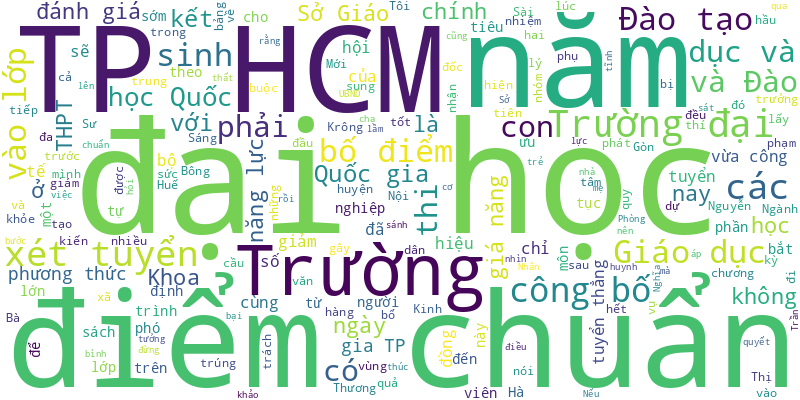
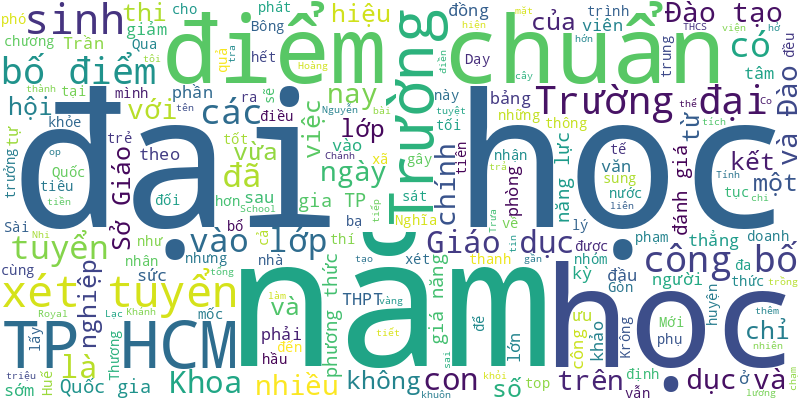
🍀 = 10%

diff --git a/README.md b/README.md
@@ -1,7 +1,17 @@
 # Tuoi Tre RSS 
 
 ## Giáo dục 
+- Chánh văn phòng Sở Giáo dục và Đào tạo TP.HCM thông tin chi tiết về việc tuyển bổ sung vào lớp 10 năm 2024.
+- Tính đến tối ngày 4-7, đã có hơn 90 đại học, trường đại học, học viện công bố điểm chuẩn xét tuyển sớm, nhiều trường công bố điểm chuẩn xét học bạ chạm mốc gần tuyệt đối.
+- Trường đại học Khoa học tự nhiên (Đại học Quốc gia TP.HCM) vừa tiếp tục công bố điểm chuẩn thêm 2 phương thức xét tuyển sớm 1 và 6.
+- Nguyễn Hoàng Khánh Nhi (học sinh lớp 8 Royal School) liên tục điền tên vào ‘top đầu’ trên bảng vàng thành tích.
+- Trưa 4-7, nhiều thí sinh đã ra khỏi phòng khảo sát (kỳ tuyển sinh vào lớp 6 Trường Trần Đại Nghĩa năm 2024) với khuôn mặt hớn hở…
+- Sinh viên theo học chương trình Co-op từ năm 2 có thể làm việc như một nhân viên chính thức tại doanh nghiệp và được trả lương.
+- Qua thanh tra đã phát hiện tổng số tiền sai phạm tại Trường THCS Học Lạc là trên 585 triệu đồng.
+- Dạy con trồng cây, tôi nhận ra những bài học quý giá từ việc nuôi dạy một đứa trẻ.
+- Năm nay tròn 90 tuổi, sức đã yếu, mắt đã mờ nhưng GS Trần Thanh Vân vẫn còn rất nhiều tâm huyết với nền khoa học, giáo dục nước nhà.
 - Sáng nay 4-7, 4.301 học sinh lớp 5 ở TP.HCM đã bước vào kỳ khảo sát tuyển sinh lớp 6 của Trường Trần Đại Nghĩa. Chỉ tiêu tuyển của trường này là 350 học sinh.
+- Sau khi thi tốt nghiệp THPT 2024, thí sinh cần lưu ý các mốc thời gian như ngày công bố điểm thi, nộp đơn phúc khảo, đăng ký, điều chỉnh nguyện vọng xét tuyển đại học...
 - Nếu các con bị thất bại, cha mẹ nên nói với con điều đó không phải là kết thúc mà chính là một cơ hội để học hỏi và lớn lên.
 - Mới nhìn qua bảng điểm chuẩn vào lớp 10 ở TP.HCM năm nay, nhiều người lầm tưởng rằng hầu hết các trường THPT đều giảm điểm chuẩn.
 - Không chỉ con trẻ, chính các phụ huynh cũng phải tự mình bình tĩnh, đừng so sánh con mình với con nhà người rồi tạo áp lực tâm lý.
@@ -21,50 +31,41 @@
 - Tối 2-7, Trường đại học Bách khoa (Đại học Quốc gia TP.HCM) đã công bố điểm chuẩn ưu tiên xét tuyển thẳng và ưu tiên xét tuyển theo quy định của Đại học Quốc gia TP.HCM năm 2024.
 - Chiều 2-7, Trường đại học Kinh tế quốc dân chính thức công bố điểm chuẩn xét tuyển kết hợp nhóm 1, nhóm 2 và kết quả xét tuyển thẳng (xét tuyển sớm).
 - Sở Giáo dục và Đào tạo TP.HCM sẽ công bố điểm chuẩn vào lớp 10 năm 2024 vào lúc 14h ngày 3-7-2024.
-- Trường đại học Kinh tế - Luật và Trường đại học Khoa học tự nhiên (Đại học Quốc gia TP.HCM) tiếp tục công bố điểm chuẩn trúng tuyển các phương thức xét tuyển sớm, trong đó có điểm thi đánh giá năng lực.
-- Bộ Giáo dục và Đào tạo vừa công bố đáp án các môn thi tốt nghiệp THPT 2024. Bộ dự kiến đúng 8h ngày 17-7 sẽ công bố điểm thi.
-- Bà Phùng Thị Hoa, phó giám đốc Sở Tài chính Hà Giang, cùng hai cán bộ Sở Giáo dục và Đào tạo bị bắt với cáo buộc thiếu trách nhiệm trong quá trình thực hiện nhiệm vụ chương trình mục tiêu giáo dục vùng núi, vùng dân tộc thiểu số...
-- Kết luận thanh tra phát hiện một trường tiểu học đạt chuẩn quốc gia ở Đồng Nai thu chi ngoài ngân sách hàng trăm triệu đồng sai quy định.
-- Nguyễn Thị Yến Nhi, thí sinh phải nằm thi 2 môn và phải đi cấp cứu trước giờ thi môn thứ ba, đã được tuyển thẳng vào lớp 10 Trường THPT Nguyễn Hữu Cầu, TP.HCM.
-- Giám đốc Sở Giáo dục và Đào tạo tỉnh Long An cho biết dự kiến năm 2024 sẽ tiếp tục đặt hàng 2.083 sinh viên sư phạm để tạo nguồn bổ sung giáo viên.
-- Sáng 2-7, Trường đại học Quốc tế (Đại học Quốc gia TP.HCM) công bố điểm chuẩn các ngành đào tạo bậc đại học theo phương thức xét tuyển sớm.
-- Năm nay điểm chuẩn vào lớp 10 Trường THPT Đoàn Kết - Hai Bà Trưng giảm sâu đến 16,25 điểm so với năm trước.
-- Tôi không nói với con về những khó khăn đang gặp phải. Tôi chọn cách đưa con đi lang thang nơi này, chốn nọ, khi thì đạp xe, lúc cùng đọc sách...
-- Từ 13h ngày 5-7 đến 7-7, thí sinh đã đủ điểm trúng tuyển vào lớp 10 ở Hà Nội bắt buộc phải làm thủ tục xác nhận nhập học.
 ![Edu](Edu.png)
 ## Thời Sự 
-- Theo đề xuất của Bộ Công an, cá nhân có hành vi cầm cố, nhận cầm cố, mua, bán, thuê, cho thuê căn cước công dân, căn cước... có thể bị phạt từ 4-6 triệu đồng.
-- Ông Lê Trí Thanh, nguyên chủ tịch UBND tỉnh Quảng Nam, đã được Tỉnh ủy điều động giữ chức bí thư Đảng đoàn Ủy ban Mặt trận Tổ quốc Việt Nam tỉnh Quảng Nam.
-- Ông Lê Quang Thuận - phó chủ tịch UBND huyện Hướng Hóa - bị đề nghị xem xét, xử lý kỷ luật do ký giấy tờ vi phạm pháp luật về đất đai.
-- Ô tô chạy trên đường Nguyễn Tất Thành, quận 4 (TP.HCM) có lắp đèn phía sau 'siêu sáng' khiến người đi đường chói mắt, bức xúc, sau đó quay clip đăng tải lên mạng xã hội.
-- Theo nghị định 73 của Chính phủ, từ ngày 1-7, mức lương cơ sở tăng lên. Tuy nhiên, lương tăng nhưng mức giảm trừ gia cảnh vẫn đứng yên khiến nhiều người thấy việc tăng lương chưa trọn vẹn ý nghĩa.
+- Dự thảo báo cáo mới nhất của Bộ Nội vụ cho biết tính đến ngày 30-6 đã nhận được 28/53 hồ sơ đề nghị sáp nhập đơn vị cấp huyện, xã của các tỉnh, thành phố.
 - Cùng với việc tăng lương cơ sở 30% từ ngày 1-7, mức chi trả cho người bệnh có thẻ bảo hiểm y tế cũng tăng theo.
-- Một số tin tức đáng chú ý: 8 phường ở TP Thủ Đức cúp nước; Ninh Bình vào top 10 trải nghiệm cuốn hút nhất năm 2024; Hà Nội đưa bán hàng livestream vào danh mục đào tạo nghề...
-- Hôm nay 4-7, thời tiết Bắc Bộ tiếp tục mưa to nhiều nơi. Tây Nguyên và Nam Bộ mưa về chiều tối. Trung Bộ ngày nắng nóng, chiều mưa dông.
-- Giữa đêm ngọn lửa bùng phát, khói bốc cao nghi ngút trong vụ cháy nhà xưởng tại Khu công nghiệp Nam Tân Uyên ở Bình Dương.
-- Chính phủ vừa phê duyệt quy hoạch tỉnh Đồng Nai thời kỳ 2021-2030, tầm nhìn đến năm 2050, trong đó lấy sân bay Long Thành, sông Đồng Nai làm động lực mới cho phát triển đột phá.
-- Lãnh đạo nhiều doanh nghiệp bảo hiểm phi nhân thọ đề nghị giải thích rõ quy định cấm gắn bán sản phẩm bảo hiểm không bắt buộc với cung ứng sản phẩm, dịch vụ ngân hàng dưới mọi hình thức.
-- Sau phản ánh "Ớn lạnh chắn tàu tự động bất ngờ nâng lên khi đoàn tàu đang chạy đến" của Tuổi Trẻ Online, ngành đường sắt cho biết đây là sự cố ngoài ý muốn.
-- Ngày 3-7, đại diện Phòng cảnh sát giao thông (PC08) Công an TP.HCM cho biết Công an TP phát động toàn dân tham gia cung cấp thông tin, hình ảnh vi phạm giao thông trên địa bàn.
-- TP.HCM sẽ chấm dứt hợp đồng với nhà đầu tư dự án BOT đường nối Võ Văn Kiệt đến cao tốc TP.HCM - Trung Lương.
-- Hàng chục xác lợn đã bốc mùi hôi thối được vứt ngổn ngang giữa đồng ở xã Vạn Ninh (Quảng Ninh, Quảng Bình) khiến người dân rất lo lắng về dịch bệnh.
-- Trung tướng Nguyễn Hải Trung - giám đốc Công an Hà Nội - nói như vậy khi trả lời chất vấn của đại biểu liên quan kết quả thực hiện nghị quyết về tăng cường phòng cháy chữa cháy tại thủ đô của HĐND TP Hà Nội.
-- Chỉ tiêu đất công nghiệp được phân bổ hạn chế khiến Bình Phước gặp nhiều khó khăn trong việc phát triển cũng như khai thác các lợi thế của địa phương.
-- UBND tỉnh Phú Yên xử phạt vi phạm hành chính một doanh nghiệp 300 triệu đồng vì nhiều sai phạm trong khai thác khoáng sản phục vụ thi công tuyến cao tốc Bắc - Nam.
-- Chính phủ vừa có nghị định tăng chuẩn trợ cấp ưu đãi người có công từ 2,055 triệu đồng lên 2,789 triệu đồng, tức tăng 35,7%, cao hơn tăng lương cơ sở từ 1-7.
-- Dự kiến việc di dời 11 tuyến xe khách cố định sang bến xe Miền Đông mới bắt đầu từ 0h ngày 1-8.
-- Vì thiếu kinh phí hoạt động, khó khăn trong tìm nguồn tài trợ, CLB TP.HCM xin Thành ủy, UBND TP.HCM cho gắn tên nhà tài trợ vào sau tên câu lạc bộ bóng đá.
-- Chiều tối nay 3-7, mây dông mạnh gây mưa nhiều nơi tại TP.HCM, có nơi mưa to kèm gió mạnh khiến đường ngập, cây xanh bật gốc.
-- Thủ tướng Chính phủ đã phê chuẩn kết quả bầu chức vụ chủ tịch UBND tỉnh Quảng Nam đối với ông Lê Văn Dũng.
-- Chiều 3-7, Bộ Y tế tổ chức lễ công bố quyết định của Thủ tướng Chính phủ bổ nhiệm ông Nguyễn Tri Thức, giám đốc Bệnh viện Chợ Rẫy, giữ chức thứ trưởng Bộ Y tế.
-- Cơ quan chức năng tỉnh Bà Rịa - Vũng Tàu đã khởi tố vụ án, khởi tố một bị can để điều tra hành vi vi phạm IUU. Ngoài ra hiện đang tiếp tục làm rõ cũng như kiến nghị cơ quan khác xử lý.
-- Ngày 3-7, một nữ du khách đã bị cây rừng ngã đập đầu tử vong trong lúc ngồi sau xe máy vào tham quan thác K50 tại huyện Kbang (Gia Lai).
-- Bộ Tài chính đã yêu cầu Công ty Xổ số kiến thiết Quảng Nam rà soát, khắc phục những tồn tại, hạn chế trong hoạt động kinh doanh xổ số.
-- Bộ Kế hoạch và Đầu tư vừa có tờ trình gửi Thủ tướng về việc điều chỉnh chủ trương (điều chỉnh thời gian thực hiện) dự án metro số 1.
-- 2 người phụ nữ cãi nhau trên mạng xã hội. Khi họ hẹn gặp nhau giải quyết mâu thuẫn thì chồng và người yêu của họ dùng súng, dao tấn công nhau.
-- Mô hình thường trực Thành ủy đồng thời là chủ tịch Ủy ban MTTQ Việt Nam là tiền lệ và đó là mô hình tốt cho TP.HCM
+- Ngày 4-7, chủ tịch hội đồng thành viên Tập đoàn Điện lực Việt Nam Đặng Hoàng An đã phê duyệt dự án cấp điện cho Côn Đảo từ lưới điện quốc gia. Dự án này có tổng mức đầu tư hơn 4.900 tỉ đồng.
+- Liên tiếp những vụ lắp camera quay lén bị phát giác khiến dư luận bức xúc và người bị quay lén "sống trong cảnh hoang mang", sợ những hình ảnh nhạy cảm của mình bị tung lên mạng.
+- Liên quan việc thí điểm đèn giao thông không đếm ngược ở TP.HCM, Tuổi Trẻ ghi nhận thực tế và trao đổi thông tin với cơ quan chức năng, ý kiến từ chuyên gia giao thông xung quanh việc này.
+- Một số tin tức đáng chú ý: Doanh thu phí bảo hiểm vẫn trượt dốc; Tỉ lệ chênh lệch giới tính khi sinh tại Hà Nội vẫn ở mức cao; Lương chủ tịch Xổ số TP.HCM 830 triệu đồng một năm, chưa kể thưởng...
+- Hôm nay 5-7, mưa dông tại Bắc Bộ và Nam Bộ giảm so với những ngày qua, tuy nhiên chiều tối vẫn có nơi xuất hiện mưa to.
+- Tại hiện trường vụ cháy công ty sản xuất bao bì ở Vĩnh Phúc, 'biển lửa' kèm theo cột khói đen đặc quánh, bốc cao hàng trăm mét bao trùm toàn bộ công ty.
+- Điện Kremlin xác nhận Thủ tướng Ấn Độ Narendra Modi sẽ thăm Nga vào ngày 8 và 9-7 trong chuyến thăm song phương đầu tiên sau khi ông đắc cử nhiệm kỳ thứ 3.
+- Doanh nghiệp đề xuất tuyến tàu tự lái chở khách để giảm ùn tắc cho khu vực sân bay Tân Sơn Nhất.
+- Chủ tịch HĐND TP.HCM Nguyễn Thị Lệ cho biết bà từng bị một người giả danh công an gọi lừa đảo nhưng không thành công. Cần tăng cường các biện pháp phòng chống tội phạm công nghệ cao.
+- Trước tình trạng xe dù, bến cóc lộng hành, chưa có dấu hiệu giảm, cơ quan chức năng tại TP.HCM đã dùng nhiều biện pháp để giải quyết, nhưng sự phối hợp chưa chặt chẽ.
+- Ba liệt sĩ hy sinh khi đang thực hiện nhiệm vụ trên các đảo thuộc quần đảo Trường Sa (tỉnh Khánh Hòa). Thủ tướng đã có quyết định cấp bằng "Tổ quốc ghi công".
+- Ban Văn hóa - Xã hội HĐND tỉnh Khánh Hòa kiến nghị bãi bỏ quyết định ban hành nội quy công viên bờ biển Nha Trang có quy định cấm thả diều không phù hợp quy định pháp luật.
+- Tổng bí thư Nguyễn Phú Trọng, Ủy viên Ban Thường vụ Đảng ủy Công an Trung ương, gửi nội dung phát biểu chỉ đạo, gợi mở một số ý kiến quan trọng để hội nghị tham khảo trong quá trình thảo luận.
+- Chủ tịch Quốc hội Trần Thanh Mẫn đã ký nghị quyết của Ủy ban Thường vụ Quốc hội về phân công nhiệm vụ đối với Chủ tịch, các Phó chủ tịch Quốc hội khóa XV.
+- Người dân phản ảnh khi khám chữa bệnh là phải mua sổ khám chữa bệnh rất lãng phí. Từ thực tế này, đại biểu HĐND TP Cần Thơ hỏi giám đốc Sở Y tế khi nào người dân đi khám bệnh không còn phải mua sổ khám bệnh nữa?
+- Dự án chống ngập 10.000 tỉ (nhà đầu tư là Tập đoàn Trung Nam) đã khởi công 8 năm và hoàn thành 90%. Hiện nay dự án còn nhiều vướng mắc và chờ được Chính phủ tháo gỡ.
+- Ngày 4-7, Công an Đà Nẵng cho biết vừa triệt phá đường dây tổ chức đánh bạc dưới hình thức cá độ bóng đá qua mạng, liên tỉnh trong mùa Euro, Copa America với tổng số tiền giao dịch hơn 100 tỉ đồng.
+- TP.HCM đang thí điểm đèn giao thông đếm ngược tại 4 giao lộ lớn, việc này nhận về nhiều ý kiến khác nhau. Nhiều người dân cho rằng đèn không đếm ngược dễ dừng đèn vàng đột ngột, gây tai nạn.
+- Bộ Tư pháp đề xuất bãi bỏ quy định về việc nộp giấy xác nhận tình trạng hôn nhân khi làm thủ tục đăng ký kết hôn.
+- TP Cần Thơ được trung ương ban hành nhiều chính sách phát triển, cộng thêm vị trí địa lý thuận lợi, trung tâm vùng Đồng bằng sông Cửu Long nhưng lại phát triển chưa kỳ vọng. Điều này có lãng phí "thiên thời, địa lợi, nhân hòa"?
+- 71 con sông, kênh, rạch và 12 ao, hồ, khu bảo tồn đã được Long An phê duyệt lập hành lang bảo vệ nguồn nước.
+- Chiều 4-7, tại cuộc họp báo kinh tế - xã hội, Chánh Văn phòng UBND TP.HCM Đặng Quốc Toàn đã trả lời báo chí về các tồn tại, vi phạm ở Phú Mỹ Hưng.
+- Từ năm 2023 đến nay, Bình Phước ghi nhận 94 trẻ em bị bạo lực, xâm hại. Trong nhiều hình thức xâm hại thì xâm hại tình dục trẻ em chiếm đến 75%.
+- Đường trên cao nối quốc lộ 13, đường Đinh Bộ Lĩnh, Xô Viết Nghệ Tĩnh sẽ giúp người dân đi vào trung tâm TP thuận tiện hơn.
+- Bộ Ngoại giao hoan nghênh các đánh giá của Mỹ về nỗ lực chống mua bán người ở Việt Nam, song cho rằng vẫn có sự thiếu khách quan về tình hình tự do tôn giáo.
+- Liên quan vụ án xảy ra tại khu đô thị du lịch biển Phan Thiết, Cơ quan cảnh sát điều tra Bộ Công an tiếp tục khởi tố thêm ông Nguyễn Ngọc - cựu phó chủ tịch thường trực tỉnh Bình Thuận - cùng 4 bị can khác.
+- Đồng loạt các tỉnh Tiền Giang, Long An, Đắk Lắk và nhiều địa phương đã phản hồi, đề nghị với Tập đoàn Viettel để tránh bị ngắt, gián đoạn dữ liệu đất đai.
+- UBND TP Bảo Lộc (tỉnh Lâm Đồng) đã có văn bản kiến nghị sớm kết luận sai phạm (nếu có) liên quan đến việc hiến đất mở đường để phân lô xẻ nền đất.
 ![New](News.png)
 ## Nhịp sống số 
+- Có thể thấy rằng để tối đa hóa doanh thu từ website, ứng dụng, thì nhiệm vụ là cần duy trì hiệu suất ở mức cao nhất có thể.
 - Theo cơ quan chức năng, nhà mạng cho phép thực hiện cuộc gọi lừa đảo nghĩa là đã cung cấp dịch vụ liên lạc không đúng cách và gây thiệt hại cho thuê bao.
 - Nghiên cứu mới cho thấy tiếp xúc với ánh sáng nhân tạo như bóng đèn hay điện thoại thông minh sau nửa đêm có thể làm tăng nguy cơ mắc đái tháo đường loại 2.
 - Nếu lỡ cài đặt bản cập nhật KB5039302 được phát hành gần đây cho Windows 11 và bị lỗi khởi động lại liên tục, bạn có thể làm gì?
@@ -94,5 +95,4 @@
 - Doanh nghiệp và người tiêu dùng đều cần công cụ để tự bảo vệ mình trước những hình thức gian lận mới của thanh toán số.
 - Chỉ trong một thời gian ngắn, truyền hình MyTV của VNPT đã đạt được sự tăng trưởng thần tốc, thực sự trở thành người bạn đồng hành thân thiết với các gia đình Việt mỗi ngày.
 - Kết nối Internet quốc tế gặp sự cố, chập chờn thường là cơn đau đầu của các nhà cung cấp dịch vụ trực tuyến.
-- Với sự xuất hiện của 6G, thế hệ băng thông mở rộng tiếp theo sẽ mang đến nhiều công năng và bất ngờ hơn.
 ![life](Life.png)
